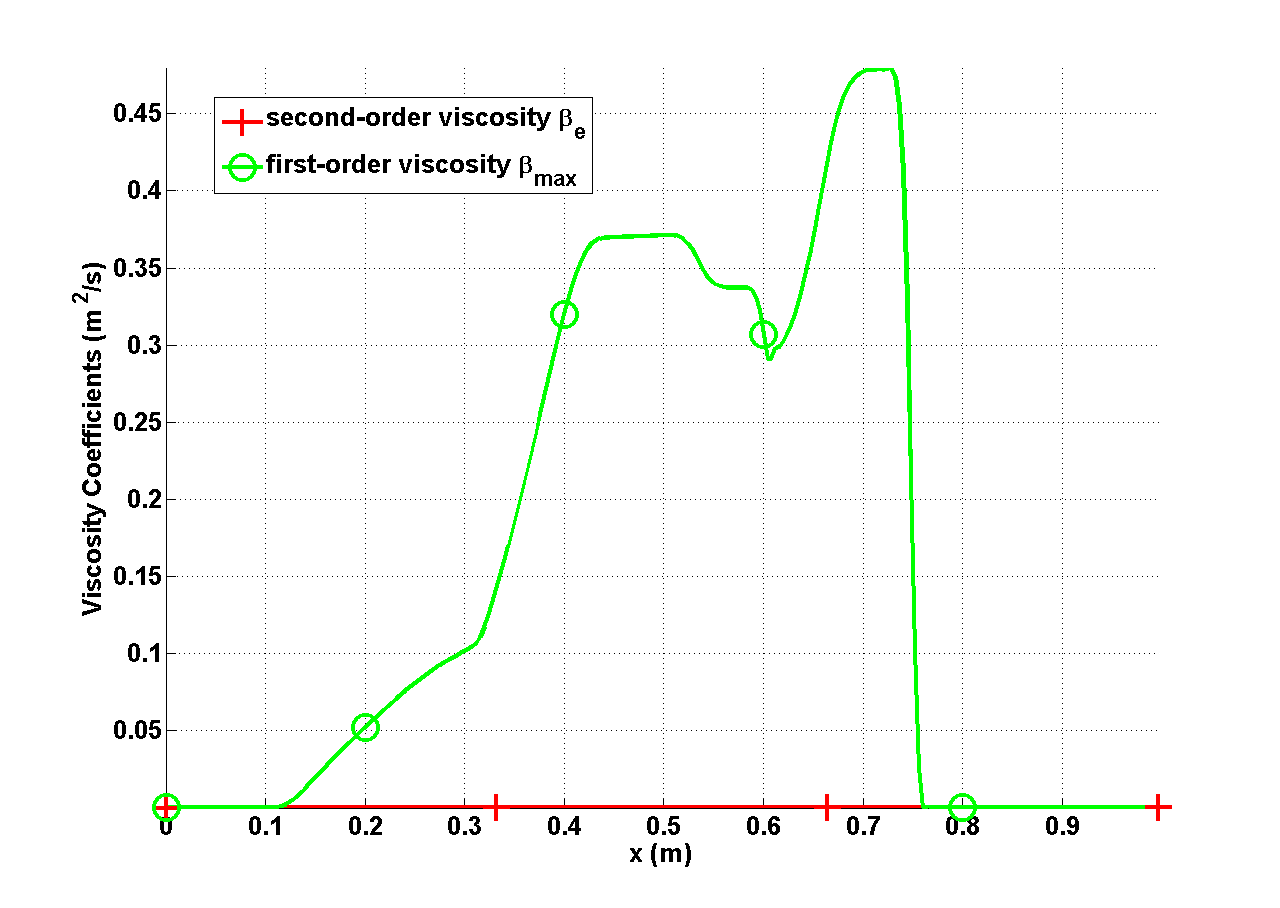
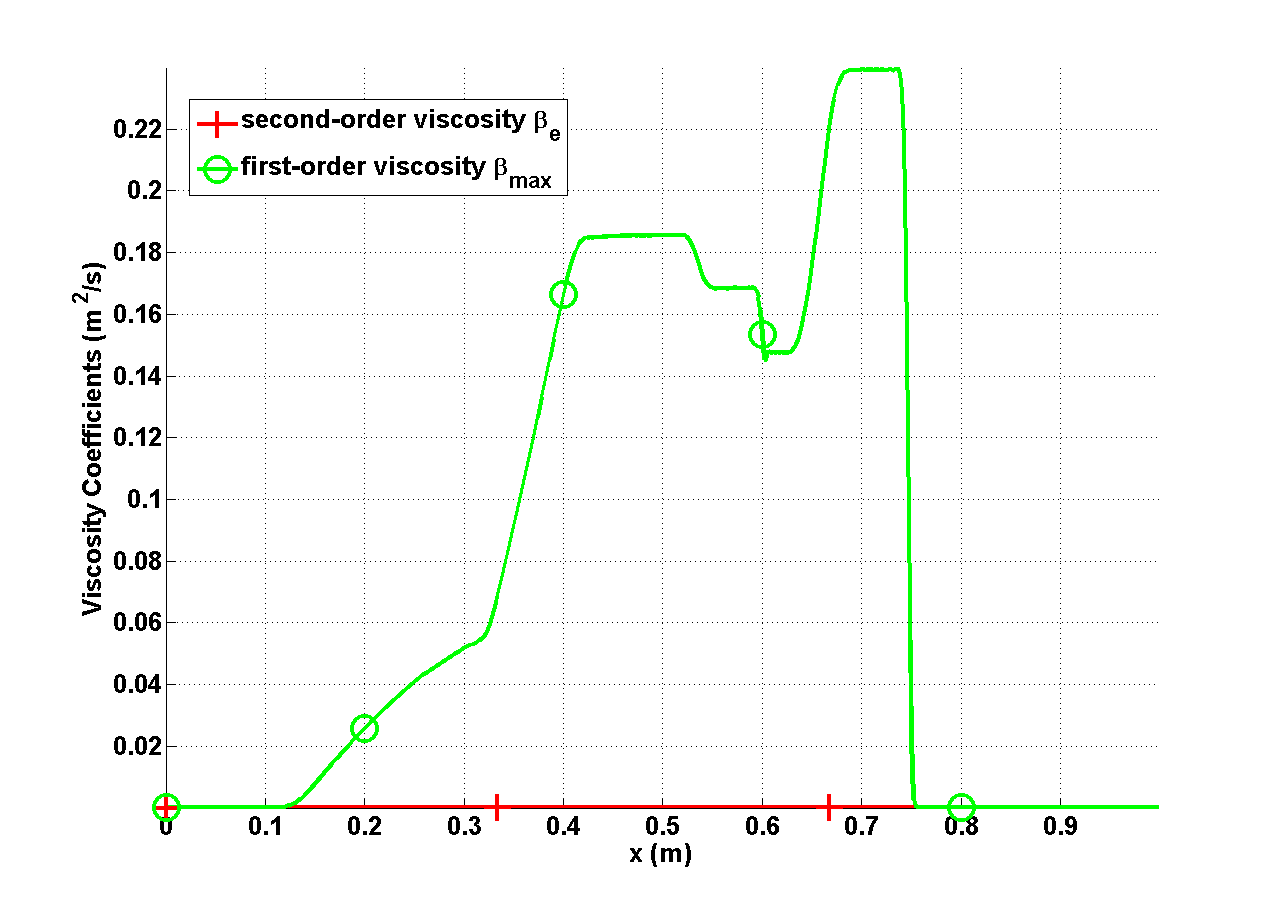
working on sem

diff --git a/section4.tex b/section4.tex
@@ -690,7 +690,193 @@ A rotation invariant viscous regularization for the multi-D seven equation model
 %===================================================================================
 \section{Low-Mach asymptotic limit and viscosity coefficients}\label{sec:sev-equ-visc-coeff-sect4}
 %===================================================================================
-In this section, definition of the viscosity coefficients involved in the viscous regularization for the multi-D seven equation model is derived. Such a task should not be underestimated and requires a good understanding of the mathematical properties of the system of equations under consideration. We propose to follow the same methodology as in \chap{chap:euler} for the multi-D Euler equations: after obtaining the adimensional equations, a definition for the viscosity coefficients is derived based on the entropy residual and consistent with the low-Mach asymptotic limit. A particular attention will be brought to the definition of the viscosity coefficient $\beta_k$ used in the volume fraction equation.
+This section aims at deriving a definition of the viscosity coefficients involved in the viscous regularization for the multi-D seven equation model is derived. We propose to follow the same methodology as in \chap{chap:euler} for the multi-D Euler equations: after obtaining the adimensional equations, a definition for the viscosity coefficients is derived based on the entropy residual and consistent with the low-Mach asymptotic limit. A particular attention will be brought to the definition of the viscosity coefficient $\beta_k$ used in the volume fraction equation.
+
+Using the EVM to define the viscosity coefficients is not the unique option here. Other numerical methods initially developed for single-phase flows, such as pressure-based and Lapidus viscosity methods, could be used as a starting point and adapted to the seven equation model. Such a reasoning is motivated by one of the initial assumptions of the seven equation model that assumes each phase verifies the Euler equations.
+%------------------------------------------------------------------------------------------------------
+\subsection{Definition of the viscosity coefficients}\label{sec:visc-coeff-sem}
+%------------------------------------------------------------------------------------------------------
+The viscous regularization derived in \sect{sec:sev-equ-visc-reg-sect4} for the multi-D SEM requires three viscosity coefficients for each phase $k$ denoted by $\beta_k$, $\mu_k$ and $\kappa_k$. Following the methodology detailed in \sect{sec:hyp_sect1b}, for each viscosity coefficient an upper bound, denoted by the subscript $\max$, is defined and referred to as the first-order viscosity coefficient, along with a entropy viscosity viscosity coefficient that is set proportional to an entropy residual and denoted by the subscript $e$:
+%
+\begin{align}\label{eq:def-visc-sem-sct4}
+\beta_k( \mbold r, t) = \min \left( \beta_{e,k}( \mbold r, t), \beta_{max,k} ( \mbold r, t) \right), \nonumber \\
+\mu_k( \mbold r, t) = \min \left( \mu_{e,k}( \mbold r, t), \mu_{max,k} ( \mbold r, t) \right), \nonumber \\
+\kappa_k( \mbold r, t) = \min \left( \kappa_{e,k}( \mbold r, t), \kappa_{max,k} ( \mbold r, t), \right) \nonumber
+\end{align}
+% 
+where all of the variables are locally defined. Alike for the multi-D Euler equations and for the same reasons, the entropy residual for each phase $k$ is recast as a function of the pressure, the velocity, the density and the speed of sound as follows:
+%
+\begin{equation}\label{eq:ent_res-sem-sct4}
+\resi_k(\mbold r,t) := \partial_t s_k + \mbold u_k \cdot \grad s_k = \matder{s_k} = \frac{(s_e)_k}{(P_e)_k} \left( \underbrace{\matder{P_k} - c_k^2 \matder{\rho_k} }_{\resinew_k(\mbold r,t)} \right) ,
+\end{equation} 
+%
+where $\resinew(\mbold r,t)_k$ is the new entropy residual of phase $k$ and will experience the same variations as $\resi(\mbold r,t)_k$. 
+
+We first choose to investigate the definitions of the high and first-order viscosity coefficients for $\mu_k$ and $\kappa_k$. It is noted that the dissipative terms function of $\mu_k$ and $\kappa_k$ are the same as the ones for the single-phase Euler equation when considering $\tilde{A} = \alpha_k A$ as a pseudo cross section. Furthermore, we need to ensure consistency with the single-phase Euler equation in the limits $\alpha_k \to 1$. Thus, based on the work done in \sect{sec:new_ent_prod} , the first order viscosity coefficients are set proportional to the local maximum eigenvalue $\lambda_k$,
+%
+\begin{equation}\label{eq:def-visc-max-sem-sct4}
+\kappa_{max,k}( \mbold r, t) = \mu_{max,k}( \mbold r, t) = \kappa_{max,k}( \mbold r, t) = \frac{h}{2} \left( | \mbold u_k \cdot \mbold n | + c_k \right)
+\end{equation}
+%
+and the entropy viscosity viscosity coefficients are defined as
+%
+\begin{subequations}
+\label{eq:visc_definition-sct4}
+\begin{equation}
+\mu^{e,k}(\mbold r,t)    = h^2 \frac{\max\left( | \resinew_k(\mbold r_q,t) |\,, || \mbold u_k(\mbold r_q,t) || J[P_k](t) \,, || \mbold u_k(\mbold r_q,t) || c_k^2(\mbold r_q,t) J[\rho_k](t) \right)}{\norm_{P,k}^\mu}    \, ,
+\end{equation} 
+\text{and} 
+\begin{equation}
+\kappa^{e,k}(\mbold r,t) = h^2 \frac{\max\left( | \resinew_k(\mbold r_q,t) |\,, || \mbold u_k(\mbold r_q,t) || J[P_k](t) \,, || \mbold u_k(\mbold r_q,t) || c_k^2(\mbold r_q,t) J[\rho_k](t) \right)}{\norm_{P,k}^\kappa} \, .
+\end{equation}
+\end{subequations}
+%
+where $h$ is the grid size and $J[x](t)$ denotes the jump of the quantity $x$ and was defined in \chap{chap:disc_chap2}. The normalization parameters $\norm_{P,k}^\mu$ and $\norm_{P,k}^\kappa$ will be determined later in this section by looking at the adimensional version of the seven equation model.
+
+It remains to specify the viscosity coefficients $\beta_e$ and $\beta_{max}$. For the purpose of this paragraph, let us consider the scalar volume fraction equation and assume that the interface velocity $\mbold u_{int}$ is given. Because it is a scalar hyperbolic equation, it is proposed to define the high and first-order viscosity coefficients on the same model as Burger's equation. Thus, $\beta_{max}$ is set proportional to the eigenvalue that is the interface velocity $\mbold u_{int}$,
+%
+\begin{equation}\label{eq:def-beta-max-sen-sect4}
+\beta_{max,k}( \mbold r, t) = \frac{h}{2} | \mbold u_{int} \cdot \mbold n |,
+\end{equation}
+%
+whereas the entropy viscosity viscosity coefficient $\beta_e$ is function of an entropy residual, $R_{\alpha,k}$, derived from the volume fraction equation for phase $k$ as follows:
+%
+\begin{align}\label{eq:def-beta-sen-sect4}
+\beta_{e,k}( \mbold r, t) = h^2 \frac{\max\left( | R_{\alpha,k}(\mbold r_q,t) |\,, || \mbold u_{int}(\mbold r_q,t) || J[\alpha_k](t) \right)}{\norm_{k}^\beta} \,
+\end{align}
+%
+where $\norm_{k}^\beta$ denotes a normalization parameters whom definition will be further investigated. To derive the entropy residual $R_{\alpha,k}$, we consider the volume fraction equation for phase $k$ with its viscous regularization and assume the existence of a mathematical entropy denoted by $\eta(\alpha_k)$:
+%
+\begin{equation}\label{eq:vf-sem-sct4}
+\partial_t \left(A \alpha_k \right) + A \mbold u_{int} \cdot \grad \alpha_k = \div \left( \beta_k A \grad \alpha_k \right)
+\end{equation}
+% 
+After multiplying by $\frac{\text{d} \eta (\alpha_k)}{\text{d} \alpha_k}$ and using the chain rule, an equation for the entropy residual $R_{\alpha,k}$ is obtained:
+%
+\begin{equation}\label{eq:vf-sem2-sct4}
+R_{\alpha,k} = \partial_t \left(A \eta(\alpha_k) \right) + A \mbold u_{int} \cdot \grad \eta(\alpha_k) = \frac{\text{d} \eta (\alpha_k)}{\text{d} \alpha_k} \div \left( \beta_k A \grad \alpha_k \right)
+\end{equation}
+% 
+Because \eqt{eq:vf-sem2-sct4} is identical to \eqt{eq:weak_sol8_sct1b}, it is concluded that $R_{\alpha,k} \geq 0$ when assuming $\eta$ convex with respect to $\alpha_k$, which justifies the definition of the entropy viscosity viscosity coefficient $\beta_{e,k}$ given in \eqt{eq:def-beta-sen-sect4} based on \eqt{sec:evm_hyp_sc_sct1b}. The entropy function is taken equal to $\eta(\alpha_k) = \frac{\alpha_k^2}{2}$ which is convex.
+%------------------------------------------------------------------------------------------------------
+\subsection{Low-Mach asymptotic limit of the seven equation model}\label{sec:low-Mach-sem}
+%------------------------------------------------------------------------------------------------------
+In order to have a complete definition for the viscosity coefficients $\beta_k$, $\mu_k$ and $\kappa_k$, the normalization parameters introduced in the definition of the entropy viscosity viscosity coefficients $\beta_{e,k}$, $\mu_{e,k}$ and $\kappa_{e,k}$ have to be determined. In \chap{chap:euler}, the normalization parameters were derived from the non-dimensionalized multi-D Euler equations in order to get well-scaled dissipative terms. Thus, it is proposed to follow the same method to derive the three normalization parameters $\norm_{P,k}^\mu$, $\norm_{P,k}^\kappa$ and $\norm_{k}^\beta$ used in the definition of the viscosity coefficients involved in the viscous regularization of the seven equation model. For simplicity, the Ideal Gas equation of state is considered through the derivations.
+
+For now, the definition of the viscosity coefficients is simply derived by analogy to \sect{sec:lowMach} and is given in \eqt{eq:final_def_visc_coeff-sem}. A more rigorous derivation is under investigation.
+%
+\begin{subequations}
+\label{eq:final_def_visc_coeff-sem}
+%
+\begin{equation}
+\mu_k(\mbold r,t)    = \min \Big (\mu_{\max,k}(\mbold r,t), \mu_{e,k} (\mbold r,t)    \Big) \text{  and  }
+\kappa_k(\mbold r,t) = \min \Big (\mu_{\max,k}(\mbold r,t), \kappa_{e,k} (\mbold r,t) \Big ) 
+\end{equation}
+%
+where the first-order viscosity is given by
+\begin{equation}\label{eq:first-order-visc-sct4-sem}
+  \kappa_{\max,k}(\mbold r,t)  = \mu_{\max,k} (\mbold r,t) = \frac{h}{2} \Big ( ||\mbold u_k|| + c_k \Big ) 
+\end{equation}
+%
+and the entropy viscosity coefficients by 
+%
+\begin{equation}
+\kappa_{e,k}(\mbold r,t) = \frac{h^2 \max(\resinew_k, J_k)}{ \rho_k c_k^2 }  \text{  and  }
+\mu_{e,k}(\mbold r,t)    = \frac{h^2 \max(\resinew_k, J_k)}{ \norm_{P,k}^\mu} 
+\end{equation}
+% 
+with the jumps given by
+%
+\begin{equation}
+J_k = || \mbold u_k || \max \Big ( [[ \grad P_k \cdot \vec{n} ]], c_k^2 [[\grad \rho_k \cdot \vec{n}]] \Big) 
+\end{equation}
+\end{subequations}
+%
+where $\norm_{P,k}^\kappa$ is computed from \eqt{eq:norm_ent2-sem}. The jump $J_k$ is a function of the jump of pressure and density gradients across the face with respect to its normal vector $\vec{n}$. Then, the largest value over all faces is determined and used in the definition of the viscosity coefficients.
+%
+\begin{equation}
+\label{eq:norm_ent2-sem}
+\norm_{P,k}^\mu =  \left\{
+\begin{array}{ll}
+ \rho_k ||\mbold u_k ||^2       & \text{ if } \left| \resinew_k^* \right| \geq M_k \text{ (i.e., non-isentropic flow)} \\
+ \rho_k c_k^2 = \norm_{P,k}^\kappa & \text{ otherwise}
+\end{array}
+\right. \,.
+\end{equation}
+%
+where $M_k$ is the local Mach number for phase $k$. Lastly, the viscosity coefficient for the volume fraction equation is given by:
+%
+\begin{equation}\label{eq:first-order-beta-sct4-sem}
+\beta_k(\mbold r,t) = \min \Big (\beta_{\max,k}(\mbold r,t), \beta_{e,k} (\mbold r,t) \Big ) 
+\end{equation}
+%
+where the first-order viscosity is given by
+\begin{equation}\label{eq:first-order-beta-max-sct4-sem}
+\beta_{\max,k} (\mbold r,t) = \frac{h}{2} ||\mbold u_{int}||
+\end{equation}
+%
+and the corresponding entropy viscosity coefficient, $\beta_{e,k}$, by 
+%
+\begin{equation}
+\beta_{e,k}(\mbold r,t) = \frac{h^2 \max(R_{\alpha,k}, J_{\alpha,k})}{|| \alpha_k - \bar{\alpha}_k ||_\infty},
+\end{equation}
+where $\bar{\alpha}_k$ is the average value of the volume fraction over the entire computational domain, and $|| \cdot ||_\infty$ denotes the infinite norm. The jump is given by:
+%
+\begin{equation}
+J_{\alpha,k} = || \mbold u_{int} || \cdot [[ \grad \alpha_k \cdot \vec{n} ]] 
+\end{equation}
+With the definition of the viscosity coefficients $\mu_k$ and $\kappa_k$ proposed in \eqt{eq:final_def_visc_coeff}, the low-Mach asymptotic limit is ensured for isentropic flow, and transonic flows with shocks will be correctly resolved for each phase $k$. Furthermore, the definition of the viscosity coefficient $\beta_k$ is consistent with the EVM used for the scalar hyperbolic equations and thus should efficiently stabilize shocks forming the in the volume fraction profile. In order to validate the proposed definition of the viscosity coefficients, $1$-D numerical simulations are performed in \sect{sec:1d-num-res-sect4}.
+%
+%First we recall the set of equations with the viscous regularization verified by a phase $k$ (expression for the dissipative terms is give in \eqt{eq:visc-reg-7-equ-sect4}):
+%%
+%%
+%\begin{subequations}\label{eq:sem-with-diss-terms}
+%\begin{align}\label{eq:sem-with-diss-terms-vf}
+%\partial_t \left( \alpha_k  A\right) + \mbold u_{int} A \grad \alpha_k = A \mu_P \left( P_k - P_j \right) + \div \mbold l_k
+%\end{align}
+%\begin{align}\label{eq:sem-with-diss-terms-cont}
+%\partial_t \left( \alpha_k \rho_k A \right) + \div \left( \alpha_k \rho_k \mbold u_k A \right) = \div \mbold f_k
+%\end{align}
+%\begin{align}\label{eq:sem-with-diss-terms-mom}
+%\partial_t \left( \alpha_k \rho_k \mbold u_k A \right) + \div \left[ \alpha_k A \left( \rho_k \mbold u_k \otimes \mbold u_k + P_k \mathbb{I} \right) \right] &=\nonumber\\
+%\alpha_k P_k \grad A + P_{int} A \grad \alpha_k &+ A \lambda_u \left( \mbold u_j - \mbold u_k \right) + \div \mbold g_k
+%\end{align}
+%\begin{align}\label{eq:sem-with-diss-terms-ener}
+%\partial_t \left( \alpha_k \rho_k E_k A \right) + \div \left[ \alpha_k A \mbold u_k \left( \rho_k E_k + P_k \right) \right] &=\nonumber\\
+%P_{int} \mbold u_{int} A \grad \alpha_k - \mu_P \bar{P}_{int} \left( P_k-P_j \right) &+ \bar{\mbold u}_{int}A \lambda_u \left( \mbold u_j - \mbold u_k \right) + \div \left( \mbold h_k + \mbold u \cdot \mbold g_k \right)
+%\end{align}
+%\end{subequations}
+%%
+%Then the following variables are introduced in order to re-write \eqt{eq:sem-with-diss-terms} in a non-dimensional manner:
+%%
+%\begin{multline}
+%\label{eq:norm_param-sem}
+%\rho_k^*   = \frac{\rho_k}{\rho_{k,\infty}}           ,\
+%u_k^*      = \frac{u_k}{u_{k,\infty}}                 ,\
+%P_k^*      = \frac{P_k}{\rho_{k,\infty} c^2_{k,\infty}}   ,\
+%E_k^*      = \frac{E_k}{c^2_{k,\infty}}              ,\\
+%u_{int}^*      = \frac{u_{int}}{u_{k,\infty}}                 ,\
+%P_{int}^*      = \frac{P_{int}}{\rho_{k,\infty} c^2_{k,\infty}}   ,\
+%x^* = \frac{x}{L_\infty}                      ,\
+%t^* = \frac{t}{L_\infty / u_{k,\infty}}           ,\ 
+%\mu_k^*    = \frac{\mu_k}{\mu_{k,\infty}}             ,\
+%\kappa_k^* = \frac{\kappa_k}{\kappa_{k,\infty}}       ,\
+%\beta_k^* = \frac{\beta_k}{\beta_{k,\infty}}\,       
+%\end{multline}
+%%
+%where  the subscript $\infty$ denote the far-field or stagnation quantities and the superscript $*$ stands for the non-dimensional variables. The far-field reference quantities are chosen such that the dimensionless flow quantities are of order 1. The reference Mach number is given by
+%%
+%\begin{equation}
+%M_{k,\infty} = \frac{u_{k,\infty}}{c_{k,\infty}} ,
+%\end{equation}
+%%
+%where $c_{k,\infty}$ is a reference value for the speed of sound. Then, the scaled equations for a phase $k$ with viscous regularization are when omitting the relaxation terms:
+%%
+%\begin{subequations}\label{eq:sem-with-diss-terms2}
+%\begin{align}\label{eq:sem-with-diss-terms-vf2}
+%\partial_t \left( \alpha_k  A\right) + \mbold u_{int} A \grad \alpha_k = A \mu_P \left( P_k - P_j \right) + \div \mbold l_k
+%\end{align}
+%\end{subequations}
 %===================================================================================
 \section{Numerical results:}\label{sec:1d-num-res-sect4}
 %===================================================================================
@@ -714,7 +900,7 @@ We consider a $1$-D straight pipe of length $L=1$ $m$ filled with two gas phases
                 \caption{Viscosity coefficients for volume fraction equation of phase $1$.}
                 \label{fig:beta-liq-7-eqn-sect4}
         \end{subfigure}
-        \caption{\label{fig:inlet_sct3}}
+        \caption{\label{fig:beta-visc-7-sect4}}
 \end{figure}
 %
 \begin{figure}[H]
@@ -723,15 +909,15 @@ We consider a $1$-D straight pipe of length $L=1$ $m$ filled with two gas phases
                 \centering
                 \includegraphics[width=\textwidth]{figures/liquid_pressure.png}
                 \caption{Pressure of phase $1$.}
-                \label{fig:press-vap-7-eqn-sect4}
+                \label{fig:press-1-7-eqn-sect4}
         \end{subfigure}%
         \begin{subfigure}[b]{0.495\textwidth}
                 \centering
                 \includegraphics[width=\textwidth]{figures/vapor_pressure.png}
                 \caption{Pressure of phase $2$.}
-                \label{fig:press-vap-7-eqn-sect4}
+                \label{fig:press-2-7-eqn-sect4}
         \end{subfigure}
-        \caption{\label{fig:inlet_sct3}}
+        \caption{\label{fig:press-7-sect4}}
 \end{figure}
 %
 \begin{figure}[H]
@@ -740,15 +926,15 @@ We consider a $1$-D straight pipe of length $L=1$ $m$ filled with two gas phases
                 \centering
                 \includegraphics[width=\textwidth]{figures/liquid_velocity.png}
                 \caption{Velocity of phase $1$.}
-                \label{vel-vap-7-eqn-sect4}
+                \label{ig:vel-1-7-eqn-sect4}
         \end{subfigure}%
         \begin{subfigure}[b]{0.495\textwidth}
                 \centering
                 \includegraphics[width=\textwidth]{figures/vapor_velocity.png}
                 \caption{Velocity of phase $2$.}
-                \label{vel-vap-7-eqn-sect4}
+                \label{ig:vel-2-7-eqn-sect4}
         \end{subfigure}
-        \caption{\label{fig:inlet_sct3}}
+        \caption{\label{fig:vel-7-sect4}}
 \end{figure}
 %
 \begin{figure}[H]
@@ -757,15 +943,15 @@ We consider a $1$-D straight pipe of length $L=1$ $m$ filled with two gas phases
                 \centering
                 \includegraphics[width=\textwidth]{figures/liquid_viscosity.png}
                 \caption{Viscosity coefficients of phase $1$.}
-                \label{vel-vap-7-eqn-sect4}
+                \label{ig:visc-1-7-eqn-sect4}
         \end{subfigure}%
         \begin{subfigure}[b]{0.495\textwidth}
                 \centering
                 \includegraphics[width=\textwidth]{figures/vapor_viscosity.png}
                 \caption{Viscosity coefficients of phase $2$.}
-                \label{vel-vap-7-eqn-sect4}
+                \label{fig:visc-2-7-eqn-sect4}
         \end{subfigure}
-        \caption{\label{fig:inlet_sct3}}
+        \caption{\label{fig:visc-7-sect4}}
 \end{figure}
 %
 %-------------------------------------------------------------------------------------------------------------------------------------------------
@@ -883,7 +1069,7 @@ We still consider a $1$-D straight pipe of length $L=1$ $m$ filled with the same
 %-------------------------------------------------------------------------------------------------------------------------------------------------
 We present one sample result for a 1-D straight pipe of area $A = 10^{-4}$ $m^2$ with a wall heat source (the wall temperature is constant: $T_w = 550$ $K$). The stiffened gas equation of state is used to model the liquid and vapor phases with the parameters taken from \cite{SGEOS} for each phase. A static pressure of $P=7.1$ $MPa$ is set at the outlet. The volume fraction, the enthalpy and the mass flow rate are specified at the inlet for each phase. The wall friction coefficient is constant and the same for the two phases, $f_w = 4 \times 10^{-2}$. The interfacial area $A_{int}$ is set to a large value to equalize the pressure and velocity of the two phases. The initial conditions are uniform. The geometry is discretized with a uniform mesh of 100 elements and the simulation is run with $CFL=100$  until a steady state is obtained. 
 
-The pressure, temperature, velocity, volume fraction and viscosity coefficients profiles are plotted from \fig{fig:pressure} through \fig{fig:viscosity_coeff}. As expected, the liquid and vapor pressure profiles are identical (\fig{fig:pressure}) and decrease through the domain because of the wall friction force. The liquid and velocity profiles are also identical as shown in \fig{fig:velocity} and increase due to the wall friction force and the heat addition. In \fig{fig:temperature}, the liquid and vapor temperature profiles are distinct and have  the same variation: the temperature rises since energy is added to the flow by the wall heat source. The variations of the vapor and liquid volume fractions are opposite: vapor is produced since the liquid temperature is larger than the saturation temperature. All of the profiles are smooth and do not display any spurious oscillations: the high-order viscosity coefficients shown in \fig{fig:viscosity_coeff}, $\kappa_{e,k}$ and $\beta_{e,k}$, are well-scaled and large enough to stabilize the numerical solution without altering it (only $\beta_{e,liquid}$ is plotted since $\beta_{e,liquid}=\beta_{e,vapor}$). It is also noted the difference of several order of magnitude between the high-order and first-order viscosity coefficients denoted by the subscript $max$. The first-order viscosity coefficients are over-dissipative and ill-scaled in the low Mach regime.
+The pressure, temperature, velocity, volume fraction and viscosity coefficients profiles are plotted from \fig{fig:pressure} through \fig{fig:viscosity_coeff}. As expected, the liquid and vapor pressure profiles are identical (\fig{fig:pressure}) and decrease through the domain because of the wall friction force. The liquid and velocity profiles are also identical as shown in \fig{fig:velocity} and increase due to the wall friction force and the heat addition. In \fig{fig:temperature}, the liquid and vapor temperature profiles are distinct and have  the same variation: the temperature rises since energy is added to the flow by the wall heat source. The variations of the vapor and liquid volume fractions are opposite: vapor is produced since the liquid temperature is larger than the saturation temperature. All of the profiles are smooth and do not display any spurious oscillations: the entropy viscosity viscosity coefficients shown in \fig{fig:viscosity_coeff}, $\kappa_{e,k}$ and $\beta_{e,k}$, are well-scaled and large enough to stabilize the numerical solution without altering it (only $\beta_{e,liquid}$ is plotted since $\beta_{e,liquid}=\beta_{e,vapor}$). It is also noted the difference of several order of magnitude between the entropy viscosity and first-order viscosity coefficients denoted by the subscript $max$. The first-order viscosity coefficients are over-dissipative and ill-scaled in the low Mach regime.
 %
         \begin{figure}[H]
                 \centering
